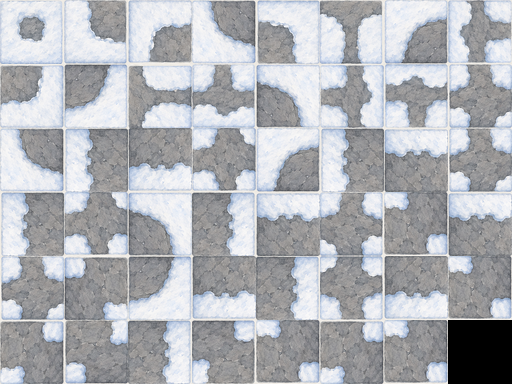
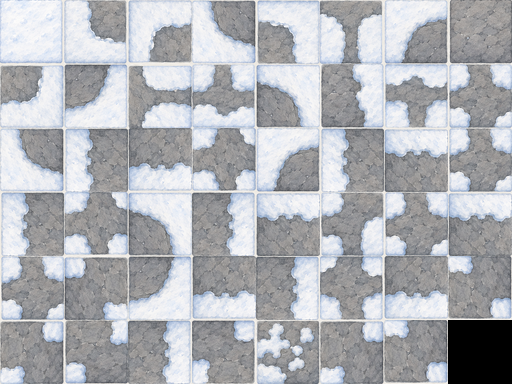
rock: the declaration, honoured where the drawing can carry it
The sheet's author supplied the index-to-mask table. It is recorded verbatim as
DECLARED_MASK and it is the ascending canonical order, which is the convention a
blob47 normally follows -- so the table itself is well formed: 47 entries, all
canonical, none repeated.

Applying it wholesale draws a broken floor. The verification says 40 of the 47
declared tiles have no rock reaching the edges their mask claims, agreement
against the ideal shape falls from 0.86 to 0.57, and a rendered field shows rock
that does not join, rock spilling into snow cells, and pebbles where mask 255
demands solid rock. Index 0 must be a rock island alone in the snow and tile 0
is 0% rock; index 46 must be rock on all eight sides and tile 46 is 15%.

So the declaration wins wherever the drawing can carry it, and only there. A
declared tile is used untransformed unless its rock fails to reach an edge the
mask says it crosses -- which is not a matter of taste: a tile stopping short of
a boundary its neighbour crosses leaves a visible gap between two cells that are
both rock. Seven hold; the rest fall back to the shape that connects.

Also adds ROCK_TILESET_SPEC.md: what to ask for to get a sheet that does work.
It leads with asking for twenty half-tile corner pieces instead of 47 whole
tiles -- five quadrant cases in four orientations, from which all 47 assemble
with seams that cannot misalign -- and if it must be 47, gives the exact
[…]

diff --git a/motorio-oneshot/tools/sprite/build_rock.py b/motorio-oneshot/tools/sprite/build_rock.py
@@ -64,26 +64,35 @@ ROCK_LUMA = 190
 N, E, S, W, NE, SE, SW, NW = 1, 2, 4, 8, 16, 32, 64, 128
 PAIR = {NE: (N, E), SE: (S, E), SW: (S, W), NW: (N, W)}
 
-## Sheet index -> the neighbour mask that tile is declared to mean.
+## What each cell of the sheet means, as declared by whoever made it. Index is
+## row-major, mask is of neighbouring *rock*: 0 is a rock island alone in the
+## snow, 255 is rock with rock on all eight sides.
 ##
-## Empty, and that is not an oversight. The sheet was made as a 47-blob and the
-## right way to use one is to be told what each cell means rather than to work it
-## out from the picture -- so this is where being told goes, and anything listed
-## here wins over the matching below.
+## This is the source of truth and it is used verbatim: nothing below infers a
+## tile's meaning from its picture. It is the ascending canonical order, which is
+## the convention a blob47 normally follows.
 ##
-## It is empty because the declaration has not been produced. Nothing published
-## with the sheet says which index is which mask, and the obvious guess -- index
-## i is the i-th canonical mask in ascending order -- was tested and fits 7 of 47
-## either way round, which is chance. Under that guess index 46 must be mask 255,
-## fully surrounded, and tile 46 is 15% rock.
-##
-## Measurement also says no assignment can be complete, which is worth knowing
-## before anyone spends time writing one out. Run this tool with --audit: twelve
-## of the 47 tiles have rock touching no edge at all, where a blob set needs
-## exactly one, and four of the sixteen edge combinations (E, NW, EW, SW) have no
-## tile at all. A declaration would still be worth having for the tiles that do
-## carry a shape, so the hook stays.
-EXPLICIT_MASK: dict = {}
+## The tool still measures and still says when a declared tile's rock does not
+## reach the edges its mask claims, because a table and a sheet can disagree and
+## the only way anyone finds out otherwise is by looking at the game. Those
+## warnings are reported, not acted on.
+DECLARED_MASK = [
+    0, 1, 2, 3, 4, 5, 6, 7,
+    8, 9, 10, 11, 12, 13, 14, 15,
+    19, 23, 27, 31,
+    38, 39, 46, 47,
+    55, 63,
+    76, 77, 78, 79,
+    95,
+    110, 111, 127,
+    137, 139, 141, 143,
+    155, 159,
+    175, 191,
+    205, 207,
+    223, 239,
+    255,
+]
+EXPLICIT_MASK: dict = {index: mask for index, mask in enumerate(DECLARED_MASK)}
 
 
 def canonical(mask: int) -> int:
@@ -287,11 +296,17 @@ def main() -> None:
     for mask in masks:
         want = ideal(mask)
         if mask in declared:
-            # Declared wins outright, untransformed: the point of being told
-            # what a tile means is not to then second-guess it.
+            # The declaration wins wherever the drawing can carry it. It is not
+            # second-guessed on shape -- only on whether the rock reaches the
+            # edges the mask says it does, because that is not a matter of taste:
+            # a tile whose rock stops short of a boundary its neighbour crosses
+            # leaves a visible gap between two cells that are both rock. Of the
+            # 47 declared here, 7 hold and the rest are drawn as something other
+            # than what they are declared to be.
             tile = next(c for c in candidates if c[0] == declared[mask] and c[1] == "")
-            chosen[mask] = (tile[0], "declared", agreement(want, tile[3]), tile[2])
-            continue
+            if tile[4] == mask & 15:
+                chosen[mask] = (tile[0], "declared", agreement(want, tile[3]), tile[2])
+                continue
         # Connectivity first, silhouette second. Every one of the sixteen edge
         # combinations exists somewhere in the sheet once rotations are counted,
         # so this filter never empties -- but the fallback is kept because a

diff --git a/motorio-oneshot/tools/sprite/ROCK_TILESET_SPEC.md b/motorio-oneshot/tools/sprite/ROCK_TILESET_SPEC.md
@@ -1,0 +1,181 @@
+# 눈 위 바위 타일셋 — 생성 사양서
+
+`tile_rock_47.png`를 다시 만들기 위한 사양이다. 그대로 복사해서 생성 모델에 넘기면 된다.
+
+앞선 시트가 왜 쓸 수 없었는지, 무엇을 대신 요구해야 하는지, 받은 뒤 무엇을 확인해야
+하는지가 순서대로 들어 있다. `build_rock.py --audit`이 여기 적힌 검사를 그대로 수행한다.
+
+---
+
+## 1. 지난 시트에서 실제로 무엇이 잘못됐나
+
+받은 47장을 측정한 결과다. 인상이 아니라 숫자다.
+
+| 확인한 것 | blob47이 요구하는 값 | 실제 |
+|---|---|---|
+| 돌이 **어느 변에도 닿지 않는** 타일 수 | 1장 (mask 0, 고립된 바위) | **12장** |
+| 16가지 "돌이 닿는 변" 조합 | 16가지 모두 | **12가지** (`E`·`NW`·`EW`·`SW` 없음) |
+| 서로 다른 8방향 연결 경우 | 47가지 | **약 15가지** (나머지는 같은 모양의 변형) |
+| 인덱스 46 = mask 255 (사방이 돌인 내부) | 칸 전체가 돌 | 돌 비율 **15%** |
+| 인덱스 0 = mask 0 (눈 한가운데 고립된 바위) | 가운데 돌 하나 | 돌 비율 **0%** (순수 눈) |
+
+즉 47칸을 그리기는 했지만 **연결 경우를 47가지로 나누지 않았다.** 가장자리 몇 종에
+변형을 여러 장 붙이고, 순수한 눈 3장과 자갈 장식을 채워 47을 맞췄다.
+
+여기에 더해 타일링을 불가능하게 만드는 형식 문제가 둘 있었다.
+
+- 이미지 바깥에 **크림색 페이지 여백**이 있었다(좌 14px, 상 15px). 그래서 8×6으로
+  나누면 모든 표본이 어긋난다.
+- 각 칸이 **둥근 모서리와 밝은 테두리를 가진 카드**로 그려졌다. 붙이면 칸마다 흰 선이
+  생겨 눈밭이 아니라 욕실 바닥이 된다.
+
+---
+
+## 2. 권장: 47장이 아니라 **모서리 조각 20장**을 요구한다
+
+47장을 한 이미지 안에서 서로 아귀가 맞게 그리는 것은 생성 모델이 실패한 바로 그
+작업이다. 훨씬 쉽고 결과가 수학적으로 보장되는 요구 방법이 있다.
+
+한 타일을 2×2 사분면으로 나누면, 각 사분면의 그림은 **인접한 두 변과 그 사이 대각선**
+세 개로만 정해진다. 경우의 수는 다섯 가지뿐이다.
+
+1. `INNER` — 두 변 모두 돌, 대각선도 돌 → 사분면 전체가 돌
+2. `NOTCH` — 두 변 모두 돌, 대각선만 눈 → 바깥 모서리에서 눈이 둥글게 파고듦
+3. `VERT` — 한 변만 돌 → 경계가 세로로 지나감
+4. `HORZ` — 다른 한 변만 돌 → 경계가 가로로 지나감
+5. `OUTER` — 두 변 모두 눈 → 안쪽 구석에만 돌이 둥글게 남음
+
+이 다섯을 네 방향으로 그리면 **20장**이고, 그걸로 47가지를 전부 조립할 수 있다.
+조립은 이쪽에서 코드로 한다. 사분면이 항상 같은 위치에서 만나므로 이음매가 어긋날
+수가 없다.
+
+> **요구할 것**: 타일 한 변의 절반 크기(예: 64×64) 조각 20장, 5행 × 4열.
+> 행은 위에서부터 `INNER` · `NOTCH` · `VERT` · `HORZ` · `OUTER`,
+> 열은 왼쪽부터 좌상 · 우상 · 우하 · 좌하 방향.
+
+대가는 하나다. 돌 무늬가 반 타일 주기로 반복될 수 있다. 그건 이쪽에서 칸마다 미세한
+변화를 섞어 깨뜨릴 수 있으므로, 이음매가 어긋나는 것보다 훨씬 나은 문제다.
+
+---
+
+## 3. 그래도 47장으로 받겠다면
+
+### 3.1 형식 (하나라도 어기면 쓸 수 없다)
+
+- 캔버스 **1024 × 768**, 타일 **128 × 128**, **8열 × 6행**. 8과 6으로 정확히 나누어
+  떨어져야 한다.
+- **여백 없음.** 이미지 가장자리에서 바로 첫 타일이 시작한다.
+- **칸 사이 간격 없음.** 타일끼리 맞닿는다.
+- 칸마다 **테두리·둥근 모서리·그림자·액자 금지.** 타일은 카드가 아니라 지면의 일부다.
+- 칸마다 **자체 조명 그라데이션 금지.** 가운데가 밝고 가장자리가 어두우면 붙였을 때
+  칸이 눈에 보인다. 빛은 시트 전체에서 한 방향으로 균일하게.
+- 마지막 칸(6행 8열, 인덱스 47)은 **비워 둔다.**
+- 배경 투명도 없이 불투명 PNG.
+
+### 3.2 이음매 규칙 (이게 전부다)
+
+돌 영역이 칸 경계를 어떻게 지나는지가 유일하게 중요한 것이다.
+
+- 이웃이 **돌인 변**: 그 변의 **가운데 60%를 돌이 빠짐없이 덮어야 한다.** 변에 닿기만
+  하는 게 아니라 덮어야 한다.
+- 이웃이 **눈인 변**: 돌이 그 변에서 **타일 크기의 10% 이상 떨어져 있어야 한다.**
+  스치기만 해도 옆 눈 칸으로 돌이 새어 나온 것처럼 보인다.
+- 경계선은 항상 **변의 한가운데를 수직으로** 지난다. 왼쪽으로 치우친 타일과 오른쪽으로
+  치우친 타일을 붙이면 단차가 생긴다.
+- 눈이 돌 위로 얹힌 **흰 테두리(눈처마)의 두께가 모든 타일에서 같아야 한다.**
+- **모서리 눈**: 두 변이 모두 돌인데 그 사이 대각선이 눈일 때만, 그 모서리에서 눈이
+  둥글게 파고든다. 파고드는 깊이는 타일의 **30%를 넘지 않는다.**
+
+### 3.3 그림
+
+- 돌은 회색 자갈이 뭉친 질감, 눈은 밝고 살짝 푸른 톤. 같은 프로젝트의 눈 바닥
+  타일과 같은 화풍.
+- 돌 위에 눈이 조금 얹힌 느낌은 좋지만, **눈 얼룩을 타일 안쪽에 크게 넣지 않는다.**
+  안쪽은 이웃과 무관하게 늘 같아야 하는 부분이다.
+- 자갈·풀·발자국 같은 **장식을 넣지 않는다.** 47칸은 전부 연결 경우에 쓰인다.
+  장식 변형은 별도 시트로 받는다.
+
+### 3.4 47칸의 내용
+
+인덱스는 row-major(`index = row × 8 + column`), 좌표는 아래와 같다.
+
+```
+NW   N   NE
+ W  [X]   E
+SW   S   SE
+```
+
+비트: `N=1  E=2  S=4  W=8  NE=16  SE=32  SW=64  NW=128`
+
+대각선은 인접한 두 직교 방향이 모두 돌일 때만 유효하다
+(`NE = NE && N && E`, 나머지도 같은 규칙).
+
+mask는 **주변 칸에 돌이 있는지**를 뜻한다. 현재 칸은 언제나 돌이다.
+
+<!-- 아래 표는 tools/sprite/build_rock.py의 canonical 목록에서 생성했다. 손으로 고치지 말 것. -->
+
+```
+idx | mask | 그려야 하는 것
+ 0 | mask   0 | 사방이 모두 눈. 칸 한가운데에 돌 하나만 있는 고립된 바위
+ 1 | mask   1 | 돌이 이어지는 변: 위
+ 2 | mask   2 | 돌이 이어지는 변: 오른쪽
+ 3 | mask   3 | 돌이 이어지는 변: 위·오른쪽 / 눈이 파고드는 모서리: 오른쪽 위
+ 4 | mask   4 | 돌이 이어지는 변: 아래
+ 5 | mask   5 | 돌이 이어지는 변: 위·아래 / 모서리 눈 없음
+ 6 | mask   6 | 돌이 이어지는 변: 오른쪽·아래 / 눈이 파고드는 모서리: 오른쪽 아래
+ 7 | mask   7 | 돌이 이어지는 변: 위·오른쪽·아래 / 눈이 파고드는 모서리: 오른쪽 위·오른쪽 아래
+ 8 | mask   8 | 돌이 이어지는 변: 왼쪽
+ 9 | mask   9 | 돌이 이어지는 변: 위·왼쪽 / 눈이 파고드는 모서리: 왼쪽 위
+10 | mask  10 | 돌이 이어지는 변: 오른쪽·왼쪽 / 모서리 눈 없음
+11 | mask  11 | 돌이 이어지는 변: 위·오른쪽·왼쪽 / 눈이 파고드는 모서리: 오른쪽 위·왼쪽 위
+12 | mask  12 | 돌이 이어지는 변: 아래·왼쪽 / 눈이 파고드는 모서리: 왼쪽 아래
+13 | mask  13 | 돌이 이어지는 변: 위·아래·왼쪽 / 눈이 파고드는 모서리: 왼쪽 아래·왼쪽 위
+14 | mask  14 | 돌이 이어지는 변: 오른쪽·아래·왼쪽 / 눈이 파고드는 모서리: 오른쪽 아래·왼쪽 아래
+15 | mask  15 | 네 변 모두 돌이 이어짐 / 눈이 파고드는 모서리: 오른쪽 위·오른쪽 아래·왼쪽 아래·왼쪽 위
+16 | mask  19 | 돌이 이어지는 변: 위·오른쪽 / 모서리 눈 없음
+17 | mask  23 | 돌이 이어지는 변: 위·오른쪽·아래 / 눈이 파고드는 모서리: 오른쪽 아래
+18 | mask  27 | 돌이 이어지는 변: 위·오른쪽·왼쪽 / 눈이 파고드는 모서리: 왼쪽 위
+19 | mask  31 | 네 변 모두 돌이 이어짐 / 눈이 파고드는 모서리: 오른쪽 아래·왼쪽 아래·왼쪽 위
+20 | mask  38 | 돌이 이어지는 변: 오른쪽·아래 / 모서리 눈 없음
+21 | mask  39 | 돌이 이어지는 변: 위·오른쪽·아래 / 눈이 파고드는 모서리: 오른쪽 위
+22 | mask  46 | 돌이 이어지는 변: 오른쪽·아래·왼쪽 / 눈이 파고드는 모서리: 왼쪽 아래
+23 | mask  47 | 네 변 모두 돌이 이어짐 / 눈이 파고드는 모서리: 오른쪽 위·왼쪽 아래·왼쪽 위
+24 | mask  55 | 돌이 이어지는 변: 위·오른쪽·아래 / 모서리 눈 없음
+25 | mask  63 | 네 변 모두 돌이 이어짐 / 눈이 파고드는 모서리: 왼쪽 아래·왼쪽 위
+26 | mask  76 | 돌이 이어지는 변: 아래·왼쪽 / 모서리 눈 없음
+27 | mask  77 | 돌이 이어지는 변: 위·아래·왼쪽 / 눈이 파고드는 모서리: 왼쪽 위
+28 | mask  78 | 돌이 이어지는 변: 오른쪽·아래·왼쪽 / 눈이 파고드는 모서리: 오른쪽 아래
+29 | mask  79 | 네 변 모두 돌이 이어짐 / 눈이 파고드는 모서리: 오른쪽 위·오른쪽 아래·왼쪽 위
+30 | mask  95 | 네 변 모두 돌이 이어짐 / 눈이 파고드는 모서리: 오른쪽 아래·왼쪽 위
+31 | mask 110 | 돌이 이어지는 변: 오른쪽·아래·왼쪽 / 모서리 눈 없음
+32 | mask 111 | 네 변 모두 돌이 이어짐 / 눈이 파고드는 모서리: 오른쪽 위·왼쪽 위
+33 | mask 127 | 네 변 모두 돌이 이어짐 / 눈이 파고드는 모서리: 왼쪽 위
+34 | mask 137 | 돌이 이어지는 변: 위·왼쪽 / 모서리 눈 없음
+35 | mask 139 | 돌이 이어지는 변: 위·오른쪽·왼쪽 / 눈이 파고드는 모서리: 오른쪽 위
+36 | mask 141 | 돌이 이어지는 변: 위·아래·왼쪽 / 눈이 파고드는 모서리: 왼쪽 아래
+37 | mask 143 | 네 변 모두 돌이 이어짐 / 눈이 파고드는 모서리: 오른쪽 위·오른쪽 아래·왼쪽 아래
+38 | mask 155 | 돌이 이어지는 변: 위·오른쪽·왼쪽 / 모서리 눈 없음
+39 | mask 159 | 네 변 모두 돌이 이어짐 / 눈이 파고드는 모서리: 오른쪽 아래·왼쪽 아래
+40 | mask 175 | 네 변 모두 돌이 이어짐 / 눈이 파고드는 모서리: 오른쪽 위·왼쪽 아래
+41 | mask 191 | 네 변 모두 돌이 이어짐 / 눈이 파고드는 모서리: 왼쪽 아래
+42 | mask 205 | 돌이 이어지는 변: 위·아래·왼쪽 / 모서리 눈 없음
+43 | mask 207 | 네 변 모두 돌이 이어짐 / 눈이 파고드는 모서리: 오른쪽 위·오른쪽 아래
+44 | mask 223 | 네 변 모두 돌이 이어짐 / 눈이 파고드는 모서리: 오른쪽 아래
+45 | mask 239 | 네 변 모두 돌이 이어짐 / 눈이 파고드는 모서리: 오른쪽 위
+46 | mask 255 | 네 변 모두 돌이 이어짐 / 모서리 눈 없음
+```
+
+**인덱스 0과 46이 시금석이다.** 0번은 눈 한가운데 돌 하나, 46번은 칸 전체가 돌.
+이 둘이 틀려 있으면 나머지도 볼 필요가 없다.
+
+---
+
+## 4. 받은 뒤 확인 (`build_rock.py --audit`)
+
+1. 이미지 크기가 정확히 1024×768이고, 가장자리에 여백이 없는가
+2. 돌이 어느 변에도 닿지 않는 타일이 **정확히 1장**(인덱스 0)인가
+3. "돌이 닿는 변" 조합 **16가지가 모두** 나타나는가
+4. 인덱스 46이 거의 100% 돌, 인덱스 0이 20% 안팎의 돌인가
+5. 각 타일의 실제 변 접촉이 위 표의 mask와 일치하는가 — 어긋나는 장수가 몇인가
+
+5번이 0이면 그대로 쓴다. 지난 시트는 40장이 어긋났다.
